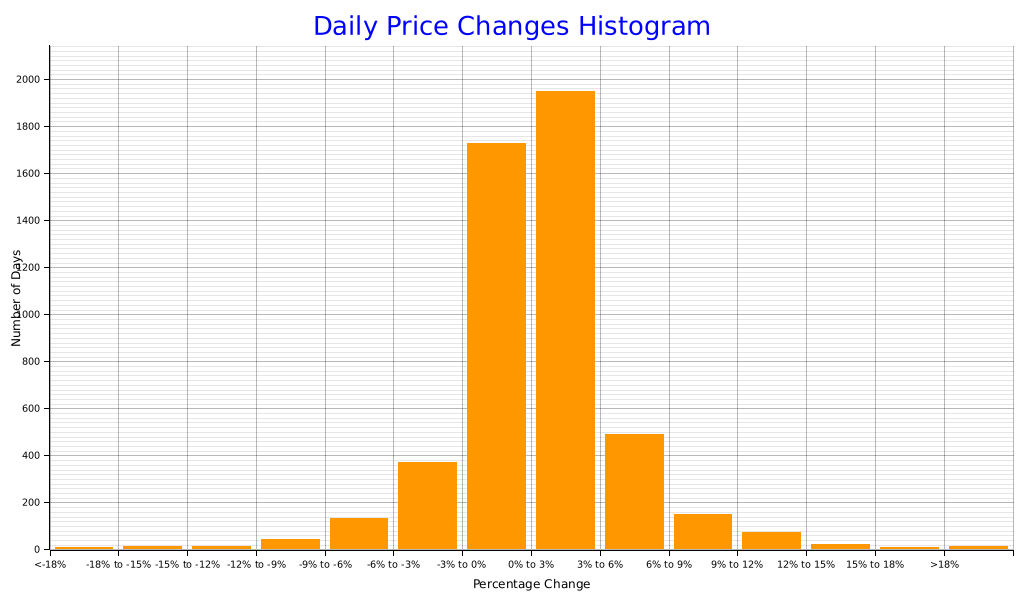
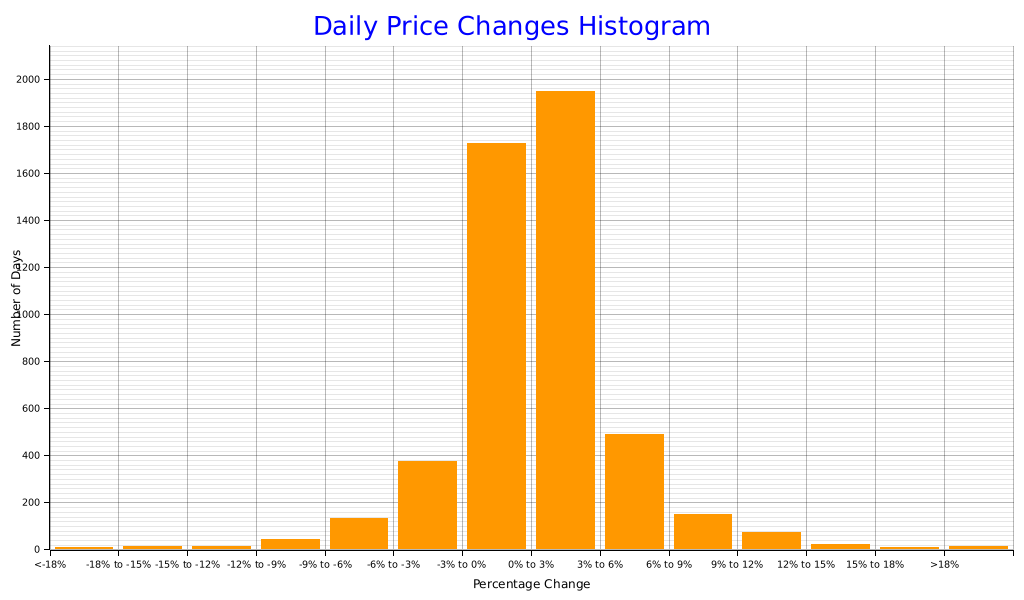
deploy: 33ad19df8a7f642849af7c199b92f08d1cdc9e02

diff --git a/index.html b/index.html
@@ -34,7 +34,7 @@
           <td>124,457.11</td>
           <td>74,436.67</td>
           <td></td>
-          <td>12,518,169,772,032.0</td>
+          <td>12,520,044,625,920.0</td>
         </tr>
         <tr>
           <td class='yearly-summary-year'>2024</td>
@@ -186,11 +186,11 @@
         </tr>
         <tr>
           <td>-3% to 0%</td>
-          <td>1728</td>
+          <td>1729</td>
         </tr>
         <tr>
           <td>0% to 3%</td>
-          <td>1948</td>
+          <td>1947</td>
         </tr>
         <tr>
           <td>3% to 6%</td>
@@ -227,7 +227,7 @@
     <br><br>
     <a href='https://github.com/bitcoin-tools/btracker'>Link to the report codebase</a>
     <br><br>
-    This report was last updated at 2025-09-09 14:20:43.689973338 UTC.
+    This report was last updated at 2025-09-09 14:46:51.315175213 UTC.
     <br><br>
     <div class='scrollable-table'>
       <table>
@@ -251,12 +251,12 @@
             <td>112,052.79</td>
             <td>113,210.41</td>
             <td>111,184.25</td>
-            <td>112,277.48</td>
-            <td class='wma-column'>52,333.73</td>
-            <td>32.36 (0.06 %)</td>
-            <td>45,305.65 (67.6 %)</td>
+            <td>111,597.92</td>
+            <td class='wma-column'>52,333.25</td>
+            <td>31.87 (0.06 %)</td>
+            <td>44,626.10 (66.6 %)</td>
             <td>2,026.15 (1.8 %)</td>
-            <td>206.05 (0.1 %)</td>
+            <td>-473.50 (0.4 %)</td>
           </tr>
           <tr>
             <td>2025-09-08</td>
